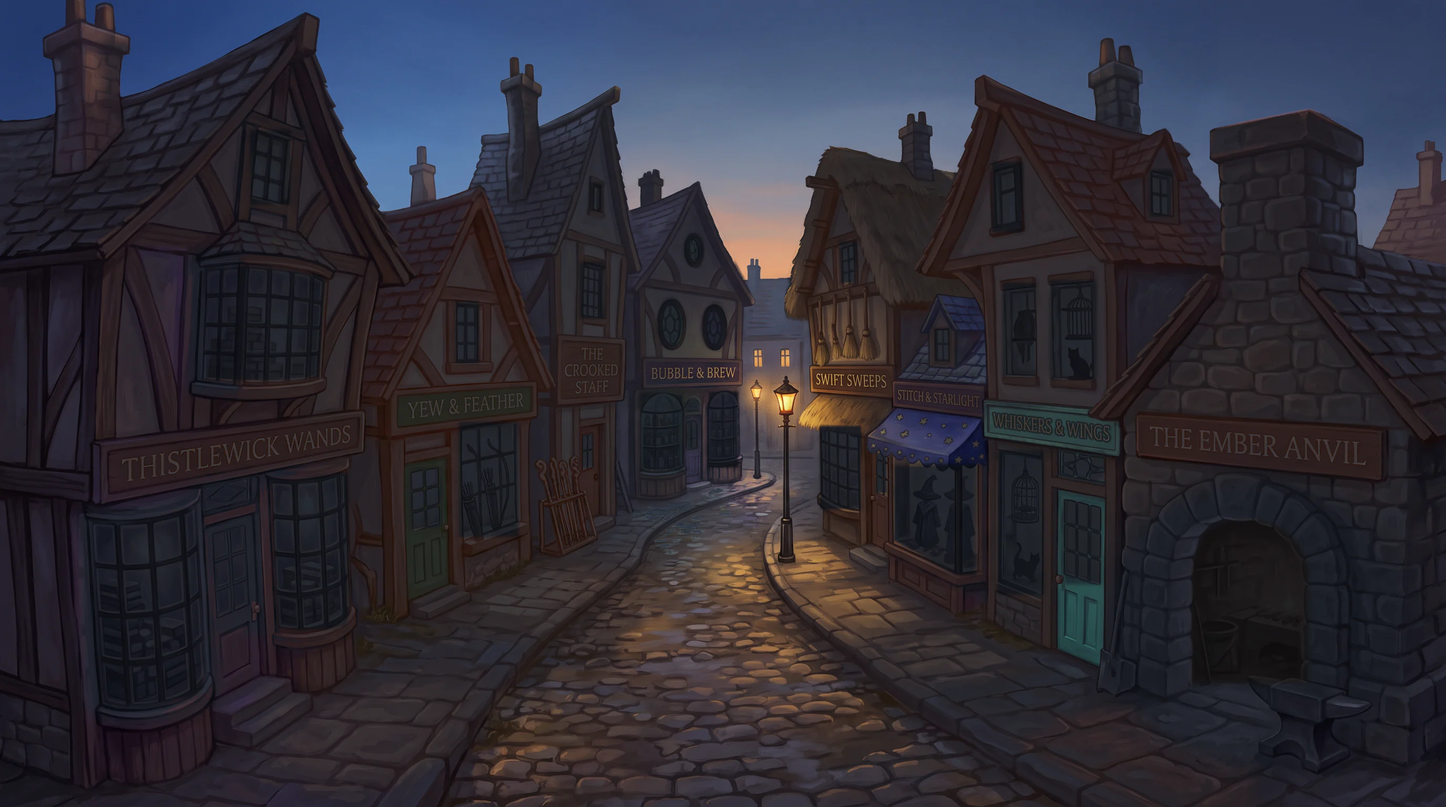
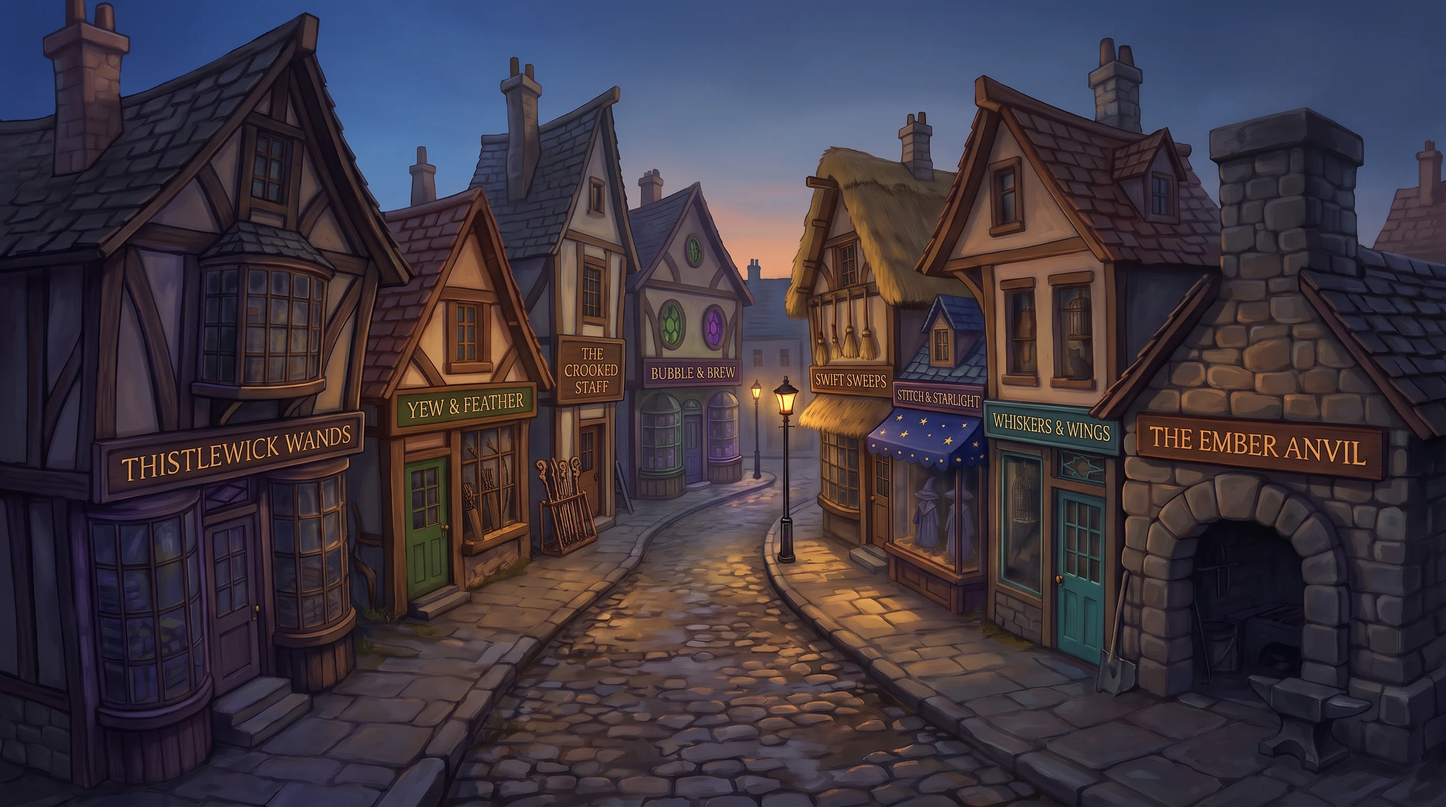
armoury: the street's dark painting is now the owner's own lights-off edit of the lit painting, checked edge for edge against it, in place of the one computed by a script, and ADR 0097 records it

diff --git a/docs/adr/0097-armoury-street-and-last-shop.md b/docs/adr/0097-armoury-street-and-last-shop.md
@@ -79,8 +79,7 @@ retracing, and nothing else in the code assumes the painting's proportions.
 - **Two paintings: lights off at rest, a shop's lights on under the pointer.**
   The owner asked for a shop's lights to come on when it is pointed at. The
   street rests in a lights-off painting (`public/street/street-dark.webp`:
-  dark glass, a cold forge, no sparks, facades in blue dusk, only the two
-  street lamps lit). Each open shop has the lit painting (`street.webp`) drawn
+  dark glass, a cold forge, no sparks, only the two street lamps lit). Each open shop has the lit painting (`street.webp`) drawn
   again over it through an SVG mask of its front grown by 24 and feathered by
   a 16 blur (painting units), so the light spills softly onto its doorstep with
   no hard edge, plus any `spill` paths its light reaches past its front (the
@@ -94,10 +93,13 @@ retracing, and nothing else in the code assumes the painting's proportions.
   layers stay hidden until the dark painting has loaded, so the lit shops
   never float on the bare page; if the dark painting fails the lit one is the
   base, and if the lit one fails the street stays dark.
-- The dark painting is derived pixel for pixel from the lit master by
-  `make-street-dark.mjs`, kept with the masters under
-  `.scratch/armoury-swords/assets-src/` with its README; it must be remade
-  whenever the lit painting changes, or the two stop lining up.
+- The dark painting is the owner's AI edit of the lit master with the lights
+  put out and nothing else moved. It was checked before use by laying the two
+  paintings' edges over each other: they coincide, and the paintings differ
+  only in the windows, the forge and the sparks. It replaces a first version
+  computed from the lit master by a script, which lined up but left grey sign
+  lettering and flat glass. The dark painting must be remade and checked the
+  same way whenever the lit painting changes, or the two stop lining up.
 - An open shop's shape is a real link (`Go into the wand shop`, `Go into the
   smithy`): focusable, a real `href`, routed by the router. At rest it is an
   invisible hit target, so the whole front and only it is clickable; the lit
@@ -151,7 +153,7 @@ retracing, and nothing else in the code assumes the painting's proportions.
 - The painting is AI-generated by the owner from the brief in
   `.scratch/armoury-swords/street-image-prompt.md`, with original shop names,
   and ships as two webps at the painting's full size (`street.webp` about
-  430 KB, `street-dark.webp` about 215 KB); the masters stay out of the repo.
+  430 KB, `street-dark.webp` about 355 KB); the masters stay out of the repo.
 
 Why: it is the owner's taste; more shops can be added later without
 repainting the street or drawing new fronts in code; and one tracing serves
